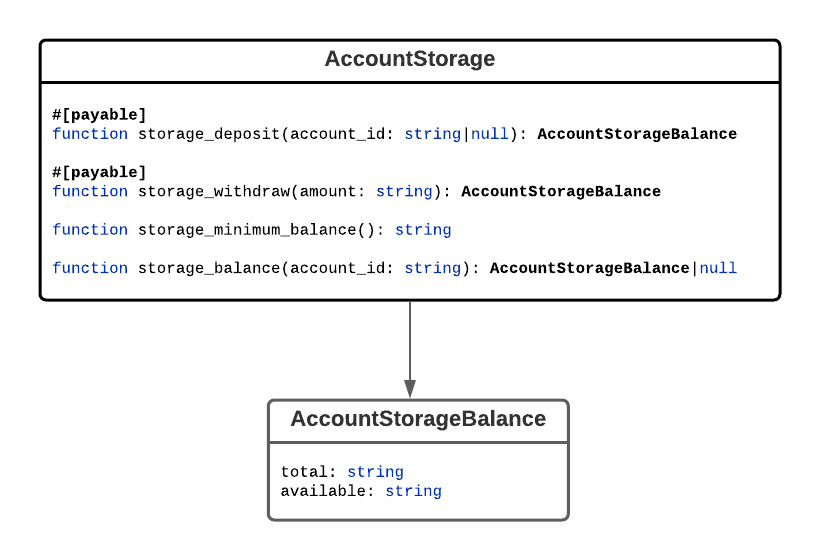
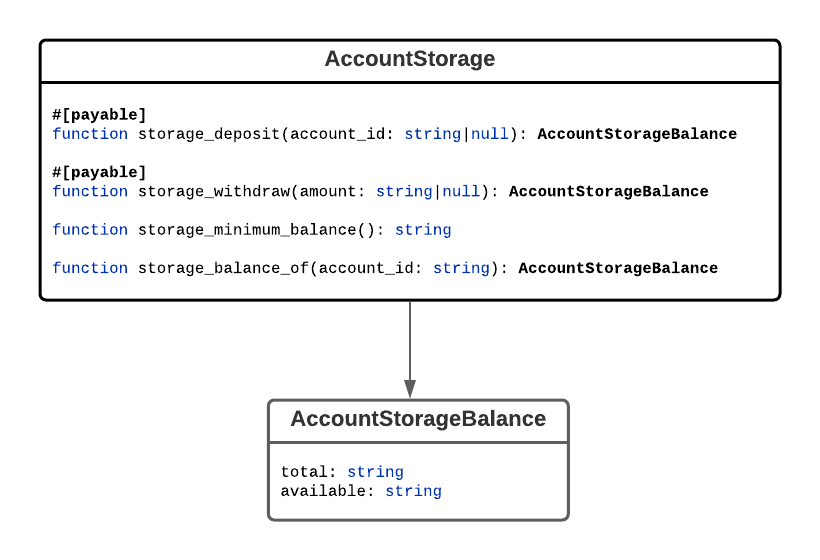
OysterPack STAKE account storage tutorial #5 - WIP
includes some fixes for format issues on previous tutorials

Changed region(s): [[0.3354, 0.4554, 0.8841, 0.5161], [0.5183, 0.3339, 0.8841, 0.3643]]

diff --git a/network-documentation/near/tutorials/1-project_overview/5-account-storage.md b/network-documentation/near/tutorials/1-project_overview/5-account-storage.md
@@ -6,23 +6,23 @@ description: Complete guide to NEAR's new account storage standard
 
 [Storage staking][1] is an issue that needs to be addressed by any multi-user contract that allocates storage for the
 user on the blockchain. This issue first arose while designing the [Fungible Token Core Standard - NEP-141][3]. Once
-NEP-141 was finalized, the NEAR community went back to work on this problem. The [online discussion][4] has been lengthy,
-and here I will present to you the fruits of our labor.
+NEP-141 was finalized, the NEAR community circled back to work on this problem. In this tutorial, I will summarize the
+lengthy [online discussion][4] and present to you the fruits of our labor.
 
 ## Motivation: There Is No Free Storage
 
 You can't get something for nothing. Long term contract state storage on the blockchain must be paid for. On the NEAR
-platform long term storage is paid for using a process called [Storage staking][1]. The contract is responsible to stake NEAR
+platform long term storage is paid for using a process called [storage staking][1]. The contract is responsible to stake NEAR
 to pay for the contract's storage usage. The NEAR amount that is used for storage staking is effectively locked and cannot
 be transferred or used to pay for gas. Storage staking costs are the most expensive costs to consider for the contract on 
 NEAR. If storage costs are not managed properly, then they can [break the bank][2] for the contract.
 
 {% hint style="info" %}
 ### Side Note about "Account Storage Standard (formerly Account Registration)"
-If you happened to follow the [online discussion][4], the discussion started with "Account Registration". However,
+If you happened to follow the [online discussion][4], it started as "Account Registration". As we dove deeper,
 the discussion evolved into "Account Storage". The two are related, but with a different focus. The discussion was shifted
-towards account storage to focus the discussion on the core problem we were trying to solve with [storage staking][1].
-Account registration is related but separate concern and is to be continued in future discussions ...
+towards account storage to focus on the core problem we were trying to solve with [storage staking][1] for multi-user contracts.
+Account registration is related but a separate concern, which is to be continued in future discussions ...
 {% endhint %}
 
 # Account Storage API
@@ -37,8 +37,8 @@ up in the contract. Any storage balance above storage staking costs is available
 4. Accounts can withdraw NEAR from the account's storage available balance.
 
 ### Out of Scope
-- How to close the account and be able to withdraw all funds has been intentionally excluded from this standard.
-- How the contract should account for changes in price for storage on the NEAR blockchain over time is out of scope.
+- How to close the account and be able to withdraw all funds.
+- How the contract should account for changes in price for storage on the NEAR blockchain over time.
 
 ## Quick API Overview 
 ![](../../../../.gitbook/assets/oysterpack-smart-account-storage-api.png)
@@ -58,12 +58,12 @@ up in the contract. Any storage balance above storage staking costs is available
 
 ```javascript
 class AccountStorageBalance {
-    total: string;
-    available: string;
+  total: string;
+  available: string;
 }
 ```
-- `total` represents the account's total storage balance in yoctoNEAR
-- `available` represents the portion of the account's total storage balance that is available for withdrawal
+- `total` represents the account's total storage balance in yoctoNEAR (in string representation)
+- `available` represents portion of the account's total balance that is available for withdrawal
 
 --- 
 
@@ -78,9 +78,15 @@ _change method_
 
 Used by accounts to deposit funds to pay for account storage staking fees. This function supports 2 deposit modes:
 1. **self deposit** (`account_id` is not specified): predecessor account is used as the account
-2. **third party deposit** (`account_id` is valid NEAR account ID):  the function caller is depositing NEAR funds for the specified `account_id`
-   
+2. **third party deposit** (`account_id` is valid NEAR account ID):  the function caller is depositing NEAR funds for the
+   specified `account_id`
+
 If this is the initial deposit for the account, then the deposit must be enough to cover the minimum required balance.
+If the attached deposit is more than the required minimum balance, then the funds are credited to the account storage available balance.
+
+##### Example Use Cases
+1. In order for the account to hold tokens, the account must first have enough NEAR funds deposited into the token contract to pay for the account's storage staking fees. The account can deposit NEAR funds for itself into the token contract, or another contract might have deposited NEAR funds into the token contract on the account's behalf to pay for the account's storage staking fees.
+2. Account's may use the blockchain to store data that grows over time. The account can use this API to deposit additional funds to pay for additional account storage usage growth.
 
 ##### Arguments
 - `account_id` - optional NEAR account ID. If not specified, then predecessor account ID will be used.
@@ -98,14 +104,16 @@ The account's updated storage balance.
 
 ```javascript
 #[payable]
-function storage_withdraw(amount: string): AccountStorageBalance;
+function storage_withdraw(amount: string|null): AccountStorageBalance;
 ```
 
 _change method_
 
-Used to withdraw NEAR from the predecessor account's storage available balance. The attached yoctoNEAR will be refunded with the withdrawal transfer.
+Used to withdraw NEAR from the predecessor account's storage available balance. If amount is not specified, then all of the account's storage available balance will be withdrawn.
 
-The account is required to attach exactly 1 yoctoNEAR to the function call to prevent restricted function-call access-key call.
+The attached yoctoNEAR will be refunded with the withdrawal transfer.
+
+The account is required to attach exactly 1 yoctoNEAR to the function call to prevent restricted function-call access-key calls.
 
 ##### Arguments
 - `amount` - the amount to withdraw from the account's storage available balance expressed in yoctoNEAR
@@ -115,11 +123,8 @@ The account's updated storage balance.
 
 ##### Panics
 - If the attached deposit does not equal 1 yoctoNEAR
+- If the account is not registered with the contract
 - If the specified withdrawal amount is greater than the account's available storage balance
-
-##### Notes
-How an account will be able to withdraw funds is out of scope for this standard. For example, the contract could provide
-a function to close the account, which would refund the account storage balance.
 
 --- 
 
@@ -134,7 +139,7 @@ _view method_
 Used to look up the minimum balance required for the initial deposit.
 
 
-#### Returns 
+#### Returns
 Amount in yoctoNEAR
 
 --- 
@@ -142,15 +147,12 @@ Amount in yoctoNEAR
 #### Function
 
 ```javascript
-function storage_balance(account_id: string): AccountStorageBalance|null;
+function storage_balance_of(account_id: string): AccountStorageBalance;
 ```
 
 _view method_
 
-Used to lookup the account storage balance for the specified account.
-
-##### Returns 
-If the account is unknown to the contract, then null is returned. Otherwise `AccountStorageBalance` is returned.
+Used to lookup the account storage balance for the specified account. If the account is unknown to the contract then the total account storage balance returned will be zero.
 
 ##### Panics
 - If `account_id` is not a valid NEAR account ID
